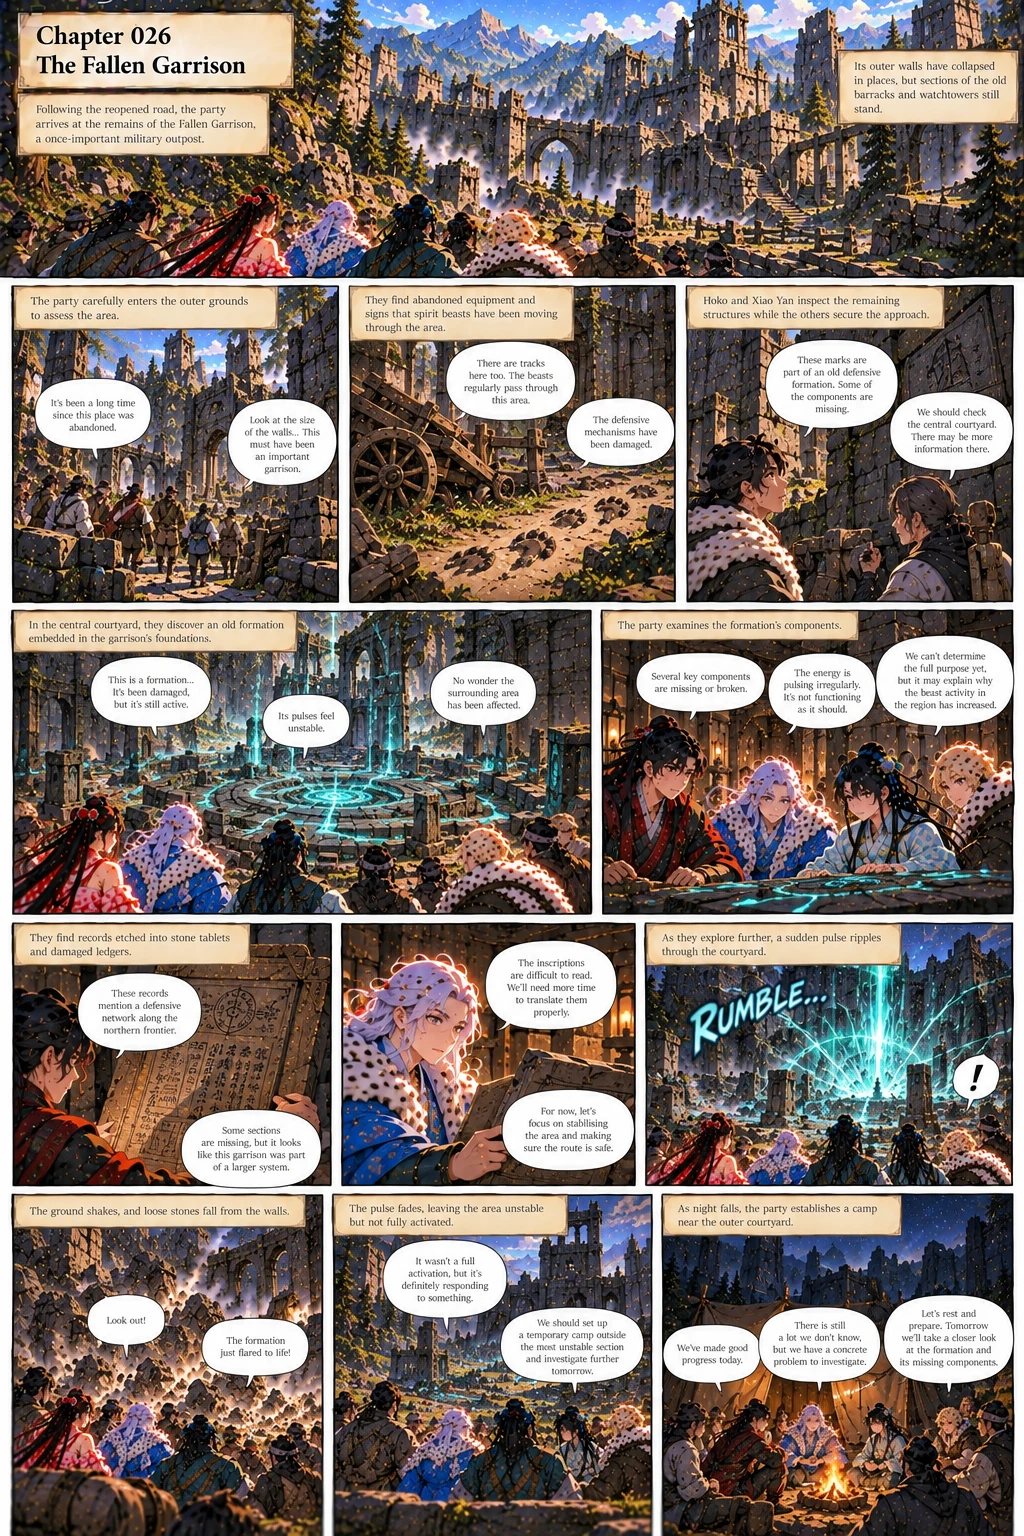
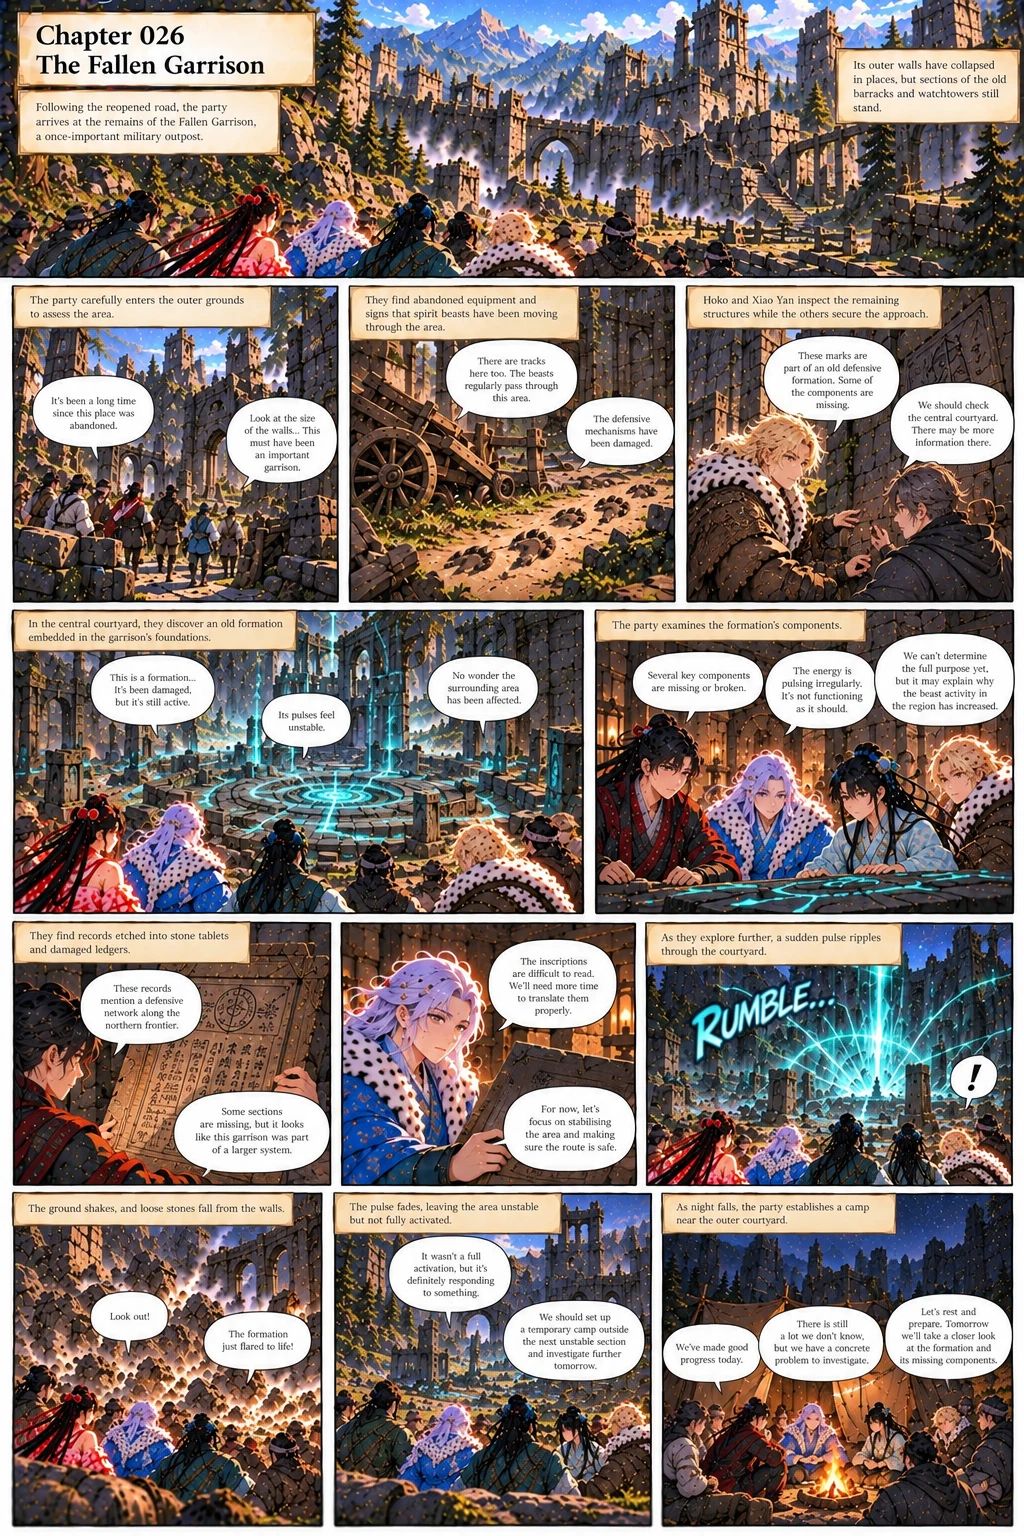
Volume 11: install corrected 009 and 026; log KIV list
Claude-Session: https://claude.ai/code/session_01XEYzSJa6dBuS74MycM45Hs

diff --git a/sw.js b/sw.js
@@ -1,5 +1,5 @@
 /* Crimson Moon service worker: app shell cached for offline play; images/comics cached as you play. */
-const VERSION = 'crimson-moon-v91';
+const VERSION = 'crimson-moon-v92';
 const SHELL = ['./', './index.html', './styles.css', './manifest.webmanifest',
   './scripts/characters.js','./scripts/chapters.js','./scripts/script.js','./scripts/script_v2.js','./scripts/hooks.js','./scripts/bounties.js','./scripts/relations.js','./scripts/board.js','./scripts/rest.js','./scripts/banter.js','./scripts/herbal.js','./scripts/personal.js','./scripts/equip.js','./scripts/ledger.js','./scripts/seal.js','./scripts/people.js','./scripts/core.js','./scripts/enemies.js','./scripts/battle.js','./scripts/confrontation.js','./scripts/journal.js','./scripts/temple.js','./assets/maps/ice_temple.webp','./assets/maps/ice_temple_v4.webp','./assets/maps/ice_temple_lower_v4.webp','./assets/volume4_cover.webp','./assets/volume5_cover.webp','./assets/volume6_cover.webp','./assets/volume7_cover.webp','./assets/volume8_cover.webp','./assets/volume9_cover.webp',
   './scripts/savedata.js','./scripts/storypopup.js','./scripts/ui.js','./assets/splash.webp','./assets/volume1_cover.webp','./assets/icons/icon-192.png','./assets/icons/icon-512.png','./assets/icons/icon-maskable-192.png','./assets/icons/icon-maskable-512.png'];

diff --git a/docs/VOLUME2.md b/docs/VOLUME2.md
@@ -539,3 +539,5 @@ Comic numbers are Volume 11 "Chapter" numbers (game chapter = number + 352). Onl
 - **Volume 11 019 (The Lost Supply Cart) re-sent and installed (chapter 371):** bandits and wild beasts attack the cart (text and battle updated to match; the stream and beast-only version is gone). Xiao Tian (teal), Cangyuan (maroon), Xiyu, Xining and the repair panel with Hoko are right. **Still wrong on this page:** the "Ya'Xing strikes from the flank" panel shows a blonde, fur-trimmed figure (Hoko's design) and the "Hoko and Xiao Yan check the driver" panel shows white-haired Dongyue beside Xiao Yan.
 - **Open art items across Volume 11 (as seen so far):** 019 (above); 026 (panel 3, Hoko/Xiao Yan inspecting the walls: a dark-haired fur-trimmed figure instead of blonde Hoko); 009 (captions swapped between Xiao Yan and Dongyue); 003-004 (Ya'Xing and Xiao Tian look alike); typos in 017's title ("Broken Pines"), 028 ("rhythm stergy"), 001 and 012. 018, 012 and 014 have not been checked against your Xiao Tian/Cangyuan and Hoko/Xiao Yan list. Everything else received has been checked and installed.
 - **Volume 11 019 re-sent again and installed (chapter 371).** Ya'Xing (light blue, flank panel) and Hoko (blonde, with Xiao Yan beside the driver) are now correct. Remaining check on this page: the Dongyue/Xining panel and the panel-1 group look right. 019 is closed; the open art items are 026, 009, 003-004 and typos as listed above.
+- **Volume 11 009 and 026 re-sent and installed (chapters 361 and 378).** 009: the Xiao Yan and Dongyue captions now sit on the right figures (Xiao Yan examining the mechanism, white-haired Dongyue with the map), Hoko and Xining are correct. 026: panel 3 now shows blonde Hoko with ash-grey Xiao Yan, and the table panel shows Xiao Tian, Dongyue, Xining and Hoko correctly. The story and dialogue match the installed text, so no text changed.
+- **Author's decision (KIV):** the minor mix-ups (Xiao Tian / Xiao Yan / Ya'Xing in 014 and 018 and in 003-004, and the typos) are put on hold; only errors involving Cangyuan or Dongyue are fixed now. Remaining on hold: 003-004, 012, 014, 018 mix-ups and the caption typos (001, 012, 017 title, 028).
